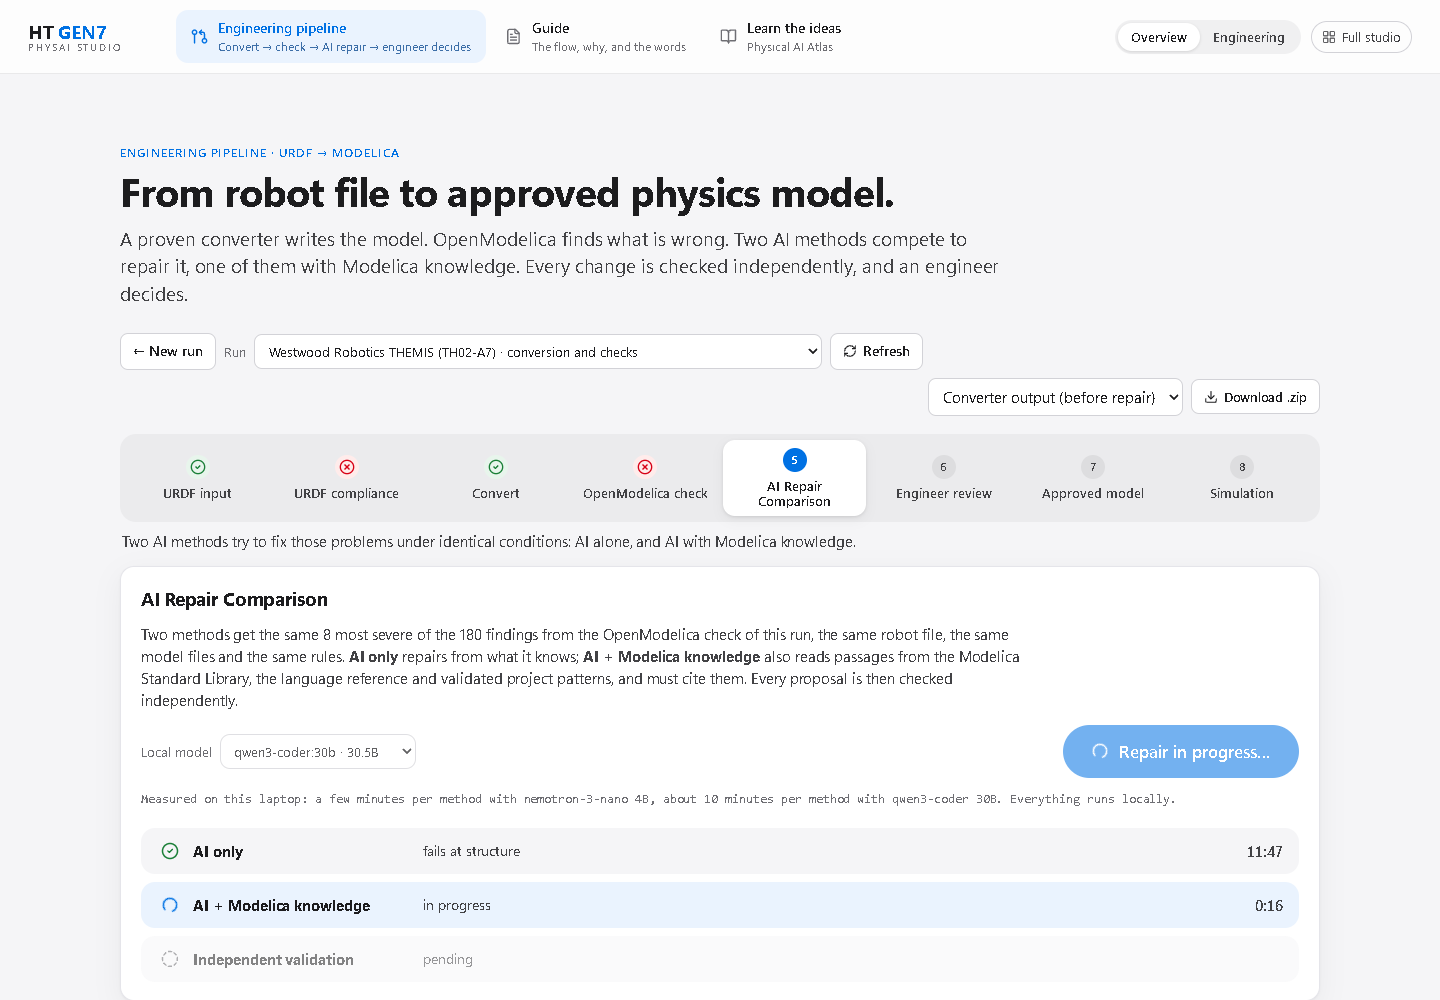
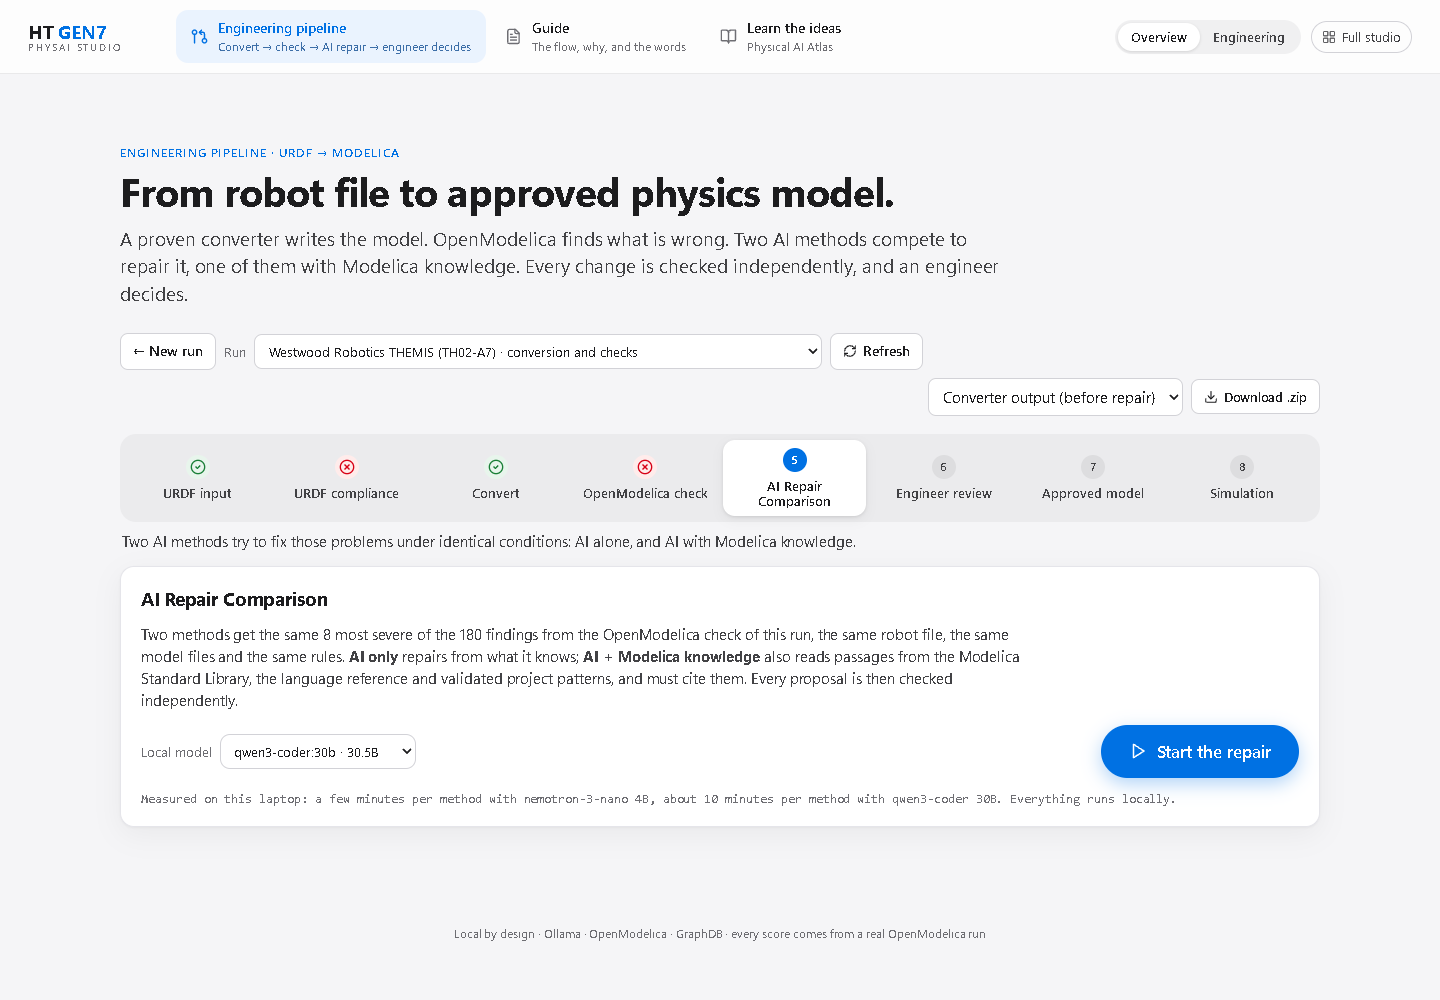
THEMIS deck: real AI Repair Comparison result (qwen3-coder 30B, both methods regressed, caught by the re-check); run label says 'case compared'

Changed region(s): [[0.7188, 0.713, 0.9062, 0.806], [0.1562, 0.899, 0.25, 0.93], [0.125, 0.837, 0.1562, 0.868]]

diff --git a/web/src/simple/Workflow.tsx b/web/src/simple/Workflow.tsx
@@ -110,7 +110,7 @@ export default function Workflow() {
               <select value={rid || ""} onChange={(e) => setRid(e.target.value)}>
                 {runs.map((r) => (
                   <option key={r.id} value={r.id}>
-                    {r.robot || r.id} · {r.model ? "repairs by " + r.model : "conversion and checks"} {r.validated_cases ? `· ${r.validated_cases} cases validated` : ""}
+                    {r.robot || r.id} · {r.model ? "repairs by " + r.model : "conversion and checks"} {r.validated_cases ? `· ${r.validated_cases} ${r.validated_cases === 1 ? "case" : "cases"} compared` : ""}
                   </option>
                 ))}
               </select>

diff --git a/presentations/themis-concept/slides.md b/presentations/themis-concept/slides.md
@@ -134,19 +134,22 @@ flowchart LR
 <div class="box"><b>Knowledge v2, 3 036 passages, all licensed:</b> Modelica Language Specification 3.7, OpenModelica error messages, MSL 4.1.0 and its 3→4 rules, OpenModelica guide, project patterns. Must be cited.</div>
 </div>
 
-<div class="crop mt-3" style="--x:140;--y:575;--w:1160;--h:410"><img src="/shots/07_repair_start.png" /></div>
-<div class="cap">THEMIS's AI Repair Comparison running with qwen3-coder 30B, entirely on this laptop.</div>
+<div class="crop mt-3" style="--x:140;--y:575;--w:1160;--h:300"><img src="/shots/07_repair_start.png" /></div>
+<div class="cap">Starting THEMIS's AI Repair Comparison: pick a local model, then "Start the repair". The 8 most severe findings are sent to both methods.</div>
 
 ---
 
 # Step 4 · Checked, never trusted
 
-<!-- REPAIR_RESULTS -->
-
-<div class="grid grid-cols-2 gap-6 mt-4 text-sm">
-<div class="box"><b>Independent validation:</b> the full OpenModelica check runs again on every candidate; findings are matched as resolved, remaining or new.</div>
-<div class="box"><b>Integrity guard:</b> a "fix" that deletes a part, a connection or a check, or changes a value from the robot file, is rejected even if it compiles.</div>
+<div class="grid grid-cols-2 gap-4 text-sm">
+<div class="box"><span class="pill bad">regressed</span> <b>AI only</b> · now <b>fails at structure</b><br/>Tried to set the joint limits by inventing a class that does not exist (<code>URDFModelica.Joints.RotationalLimit</code>). 705 s.</div>
+<div class="box"><span class="pill bad">regressed</span> <b>AI + Modelica knowledge</b> · now <b>fails at load</b><br/>Added <code>Evaluate=true</code> annotations and left a missing <code>)</code>. 15 passages supplied, none cited. 381 s.</div>
 </div>
+
+<div class="crop mt-3" style="--x:140;--y:1322;--w:1160;--h:200"><img src="/shots/08_repair_result.png" /></div>
+<div class="cap">The real result in the studio (qwen3-coder 30B, 1 118 s on this laptop): every failure comes with its plain-language note.</div>
+
+<div class="box-blue mt-3 text-sm"><b>The right repair was no model change:</b> THEMIS's defects are in the robot file. Both "fixes" were caught by the independent OpenModelica re-check, so neither can reach the approved model.</div>
 
 ---
 
@@ -180,7 +183,7 @@ flowchart LR
 
 | Robot | Stage 0 | Converter → check | What the pipeline found |
 |---|---|---|---|
-| **THEMIS TH02-A7** | <span class="pill bad">implausible</span> | simulates, checks fail | zero joint limits and efforts, two impossible thumb inertias |
+| **THEMIS TH02-A7** | <span class="pill bad">implausible</span> | simulates, checks fail | zero joint limits and efforts, two impossible thumb inertias; both AI repairs regressed |
 | Unitree G1 + Dex3-1 | <span class="pill ok">compliant</span> | simulates, checks fail | 43 joints, end to end in about 3 min |
 | Berkeley Humanoid Lite | <span class="pill ok">compliant</span> | **fails at structure** | a **converter bug**: the `imu` sensor link written twice |
 | ALOHA 2 follower arm | <span class="pill ok">compliant</span> | simulates, checks fail | finger "mimic" dropped by the converter: 52.9 mm off |
@@ -228,7 +231,7 @@ flowchart LR
 
 - A **compliance gate before conversion** catches vendor-file issues in under a second.
 - The converter copied **845/845** values faithfully: the errors were already in the file.
-- AI repair is measured, cited and guarded, **and a person decides**.
+- Both AI repairs **made the model worse**, and the re-check caught it: AI is measured and guarded, **and a person decides**.
 
 </div>
 </div>
